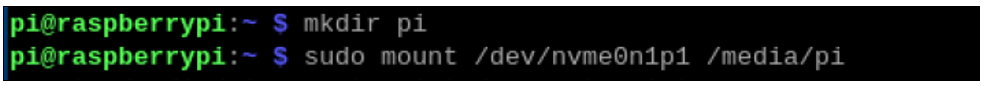
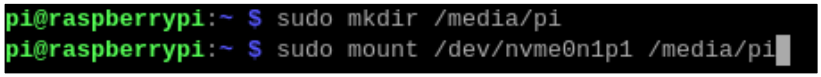
update

diff --git a/docs/source/fnk0107/codes/tutorial/3_Installing_Raspberry_Pi_OS.rst b/docs/source/fnk0107/codes/tutorial/3_Installing_Raspberry_Pi_OS.rst
@@ -552,7 +552,7 @@ At this point, you can mount the disk using the mount command and then access th
 
 .. code-block:: console
 
-    mkdir pi
+    sudo mkdir /media/pi
     sudo mount /dev/nvme0n1p1 /media/pi
 
 .. image:: ../_static/imgs/3_Installing_Raspberry_Pi_OS/Chapter03_51.png
